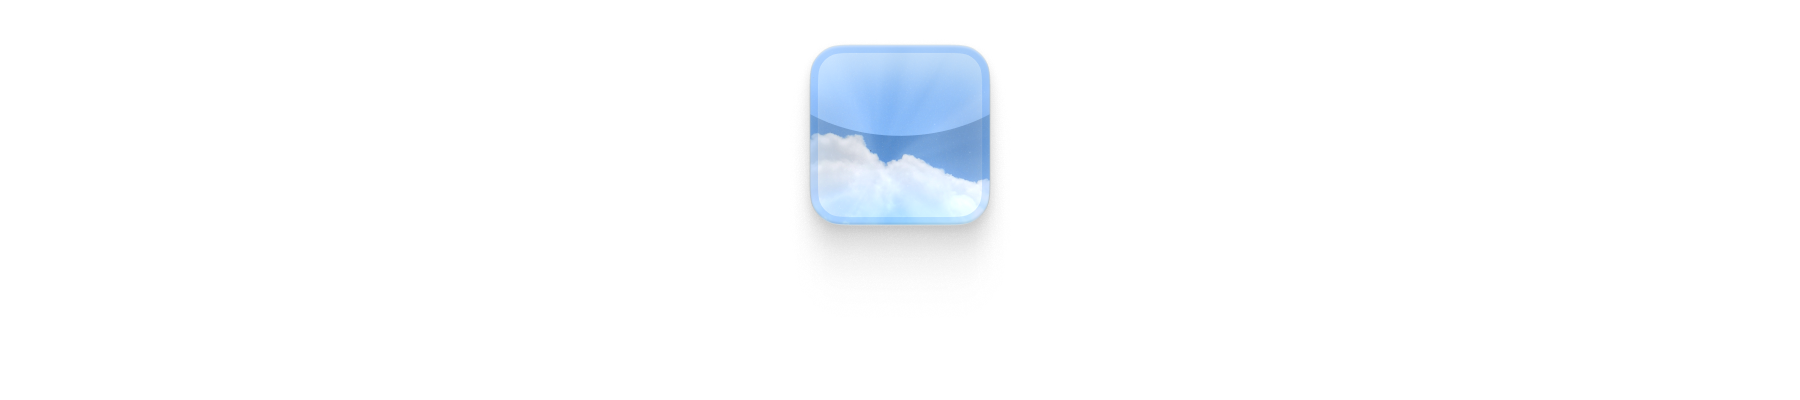
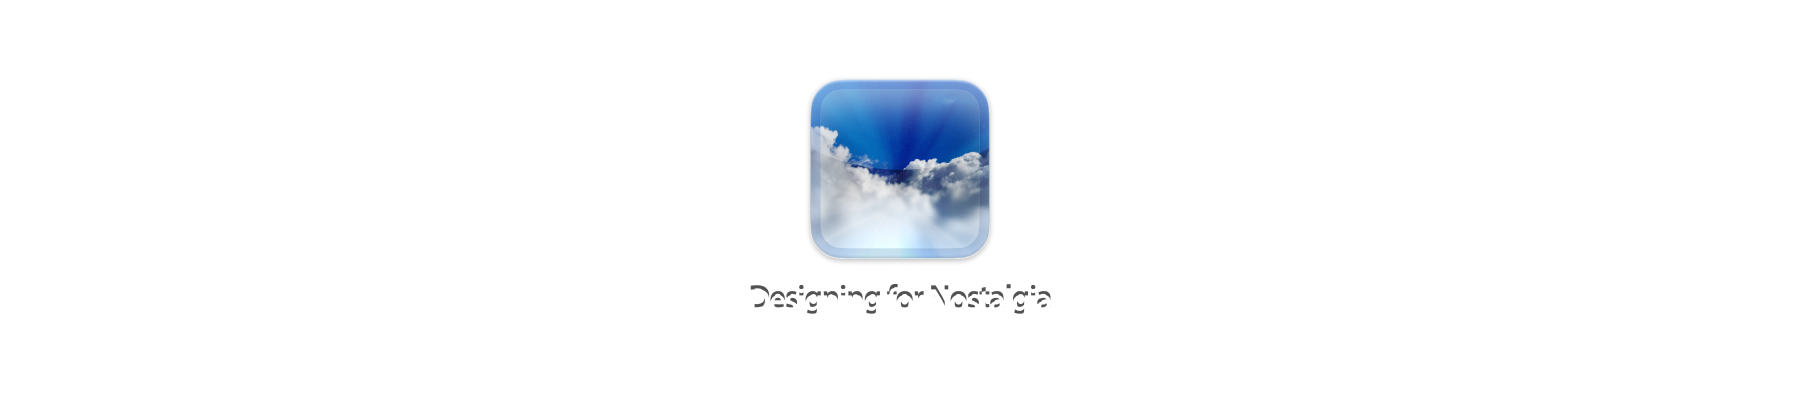
Added name ideas for thesis

Changed region(s): [[0.4356, 0.09, 0.56, 0.66], [0.4044, 0.72, 0.5911, 0.78]]

diff --git a/B_METHOD/README.md b/B_METHOD/README.md
@@ -1,7 +1,10 @@
 ![](../E_ASSETS/repo-images/skeuomorphism_method.png)
 # Process
 
-### [Small Presentation Output](PROCESS/2024-09-30/New_Pulled_Themes.md)
+### [Thesis Names Ideas](PROCESS/2024-10-24/Thesis_Names.md)
+**2024-10-24:** Gathering names for the thesis.
+
+### [Small Presentation Output](PROCESS/2024-10-03/Small_Presentation_of_Process.md)
 **2024-10-03:** Output from Nicolas Nova, Daniel Sciboz and Joël Vacheron on my thesis's plan, the progress and how I'm looking into it.
 
 ### [New Methodology and Themes](PROCESS/2024-09-30/New_Pulled_Themes.md)

diff --git a/B_METHOD/PROCESS/2024-10-24/Thesis_Names.md b/B_METHOD/PROCESS/2024-10-24/Thesis_Names.md
@@ -1,0 +1,9 @@
+# Name Ideas for the Thesis
+
+- Designing the Familiar
+- Designing for Nostalgia
+- Beyond the Metaphor
+- Designing for the Past, Present, and Future
+- Skeuomorphism Reconsidered
+- Navigating the Familiar and the New
+- 
